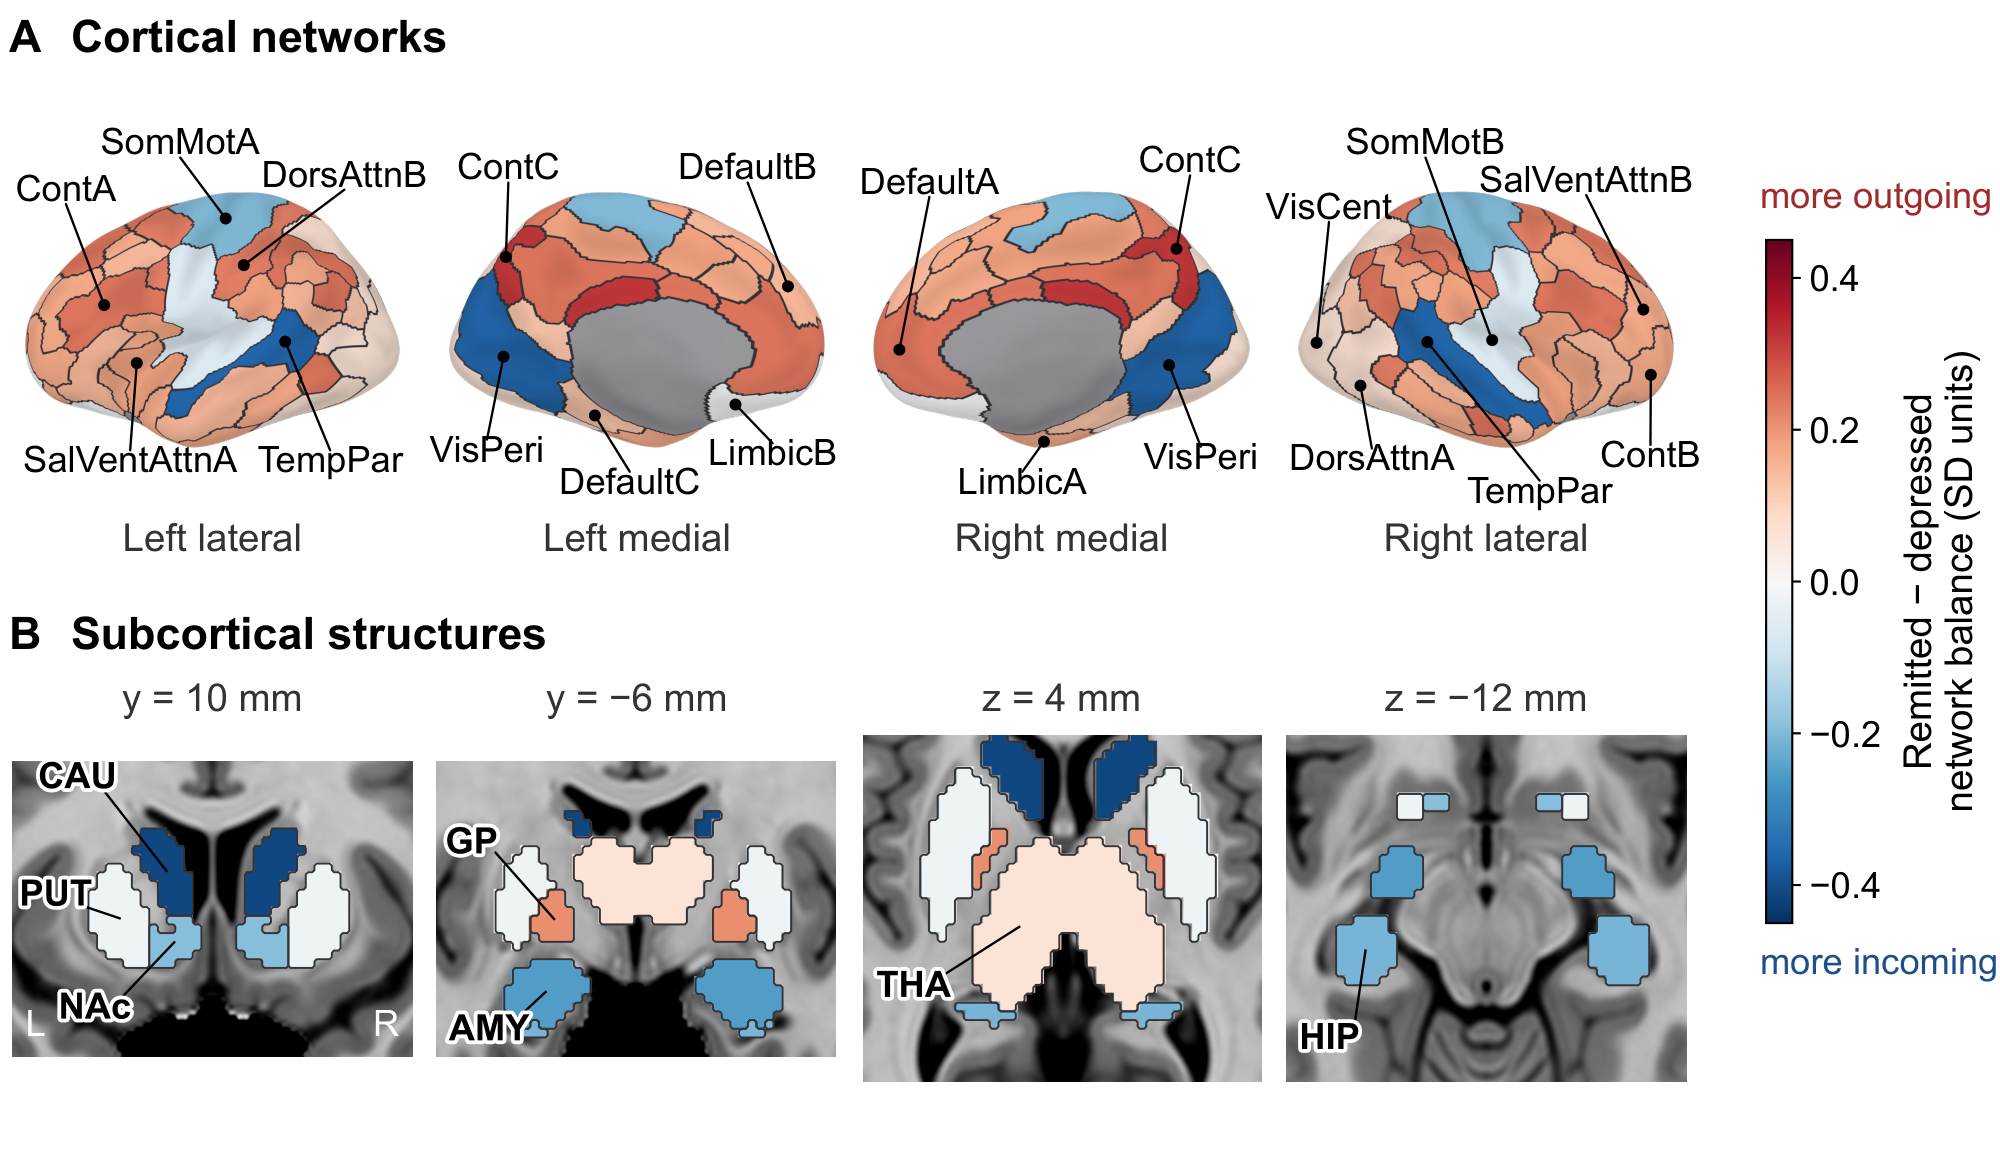
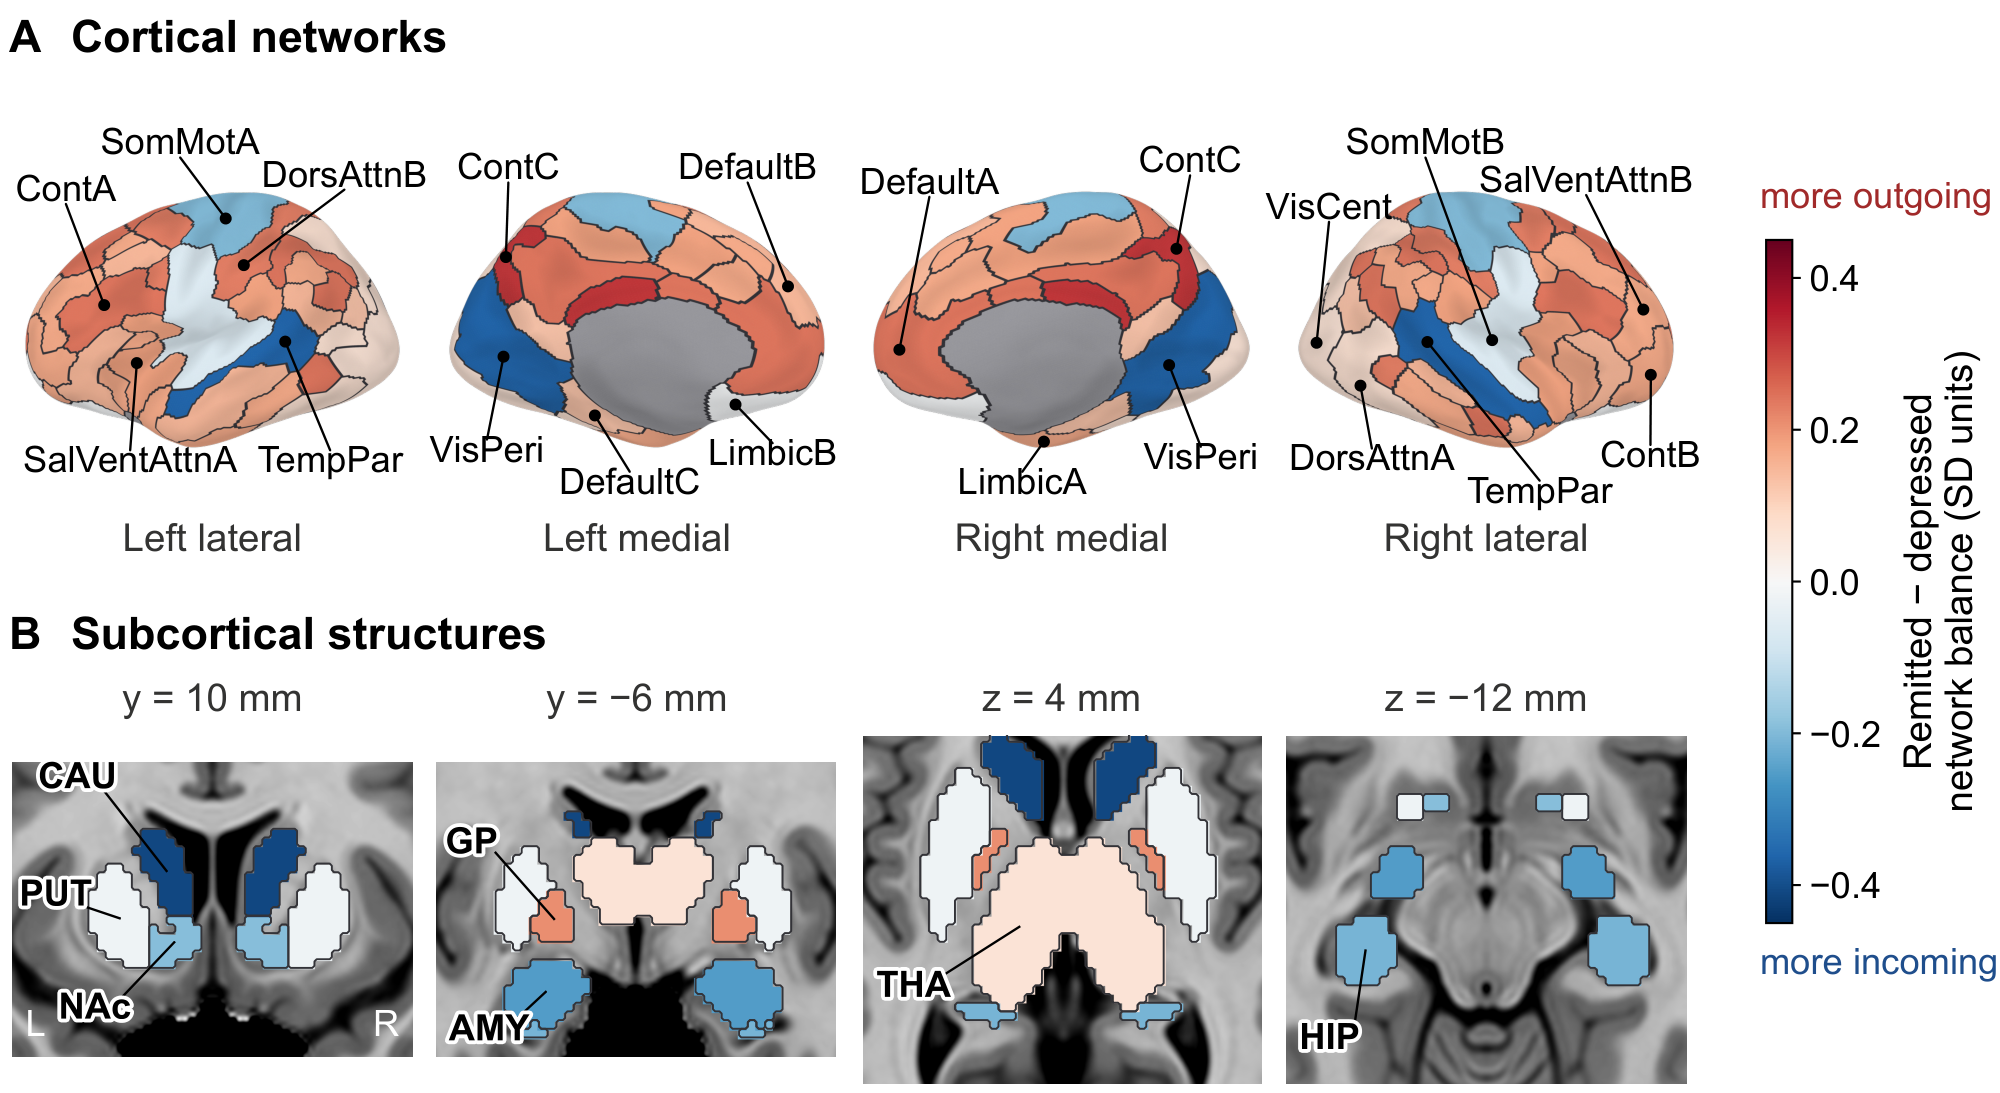
Figure 3 re-rendered from the current PDF (blank band trimmed)

diff --git a/index.html b/index.html
@@ -180,7 +180,7 @@
       </div>
       <figure class="fig">
         <a class="zoom" href="assets/network-balance-brain.webp" target="_blank" rel="noopener" title="Open the figure at full size">
-          <img src="assets/network-balance-brain.webp" width="2000" height="1164" loading="lazy"
+          <img src="assets/network-balance-brain.webp" width="2000" height="1093" loading="lazy"
                alt="Brain maps of the remitted-minus-depressed contrast of network balance. Cortical surfaces show most control, default-mode, dorsal-attention and salience networks in red, and peripheral visual, somatomotor A and temporal parietal networks in blue. Subcortical slices show the caudate, amygdala, hippocampus and nucleus accumbens in blue, and the globus pallidus and thalamus in light red.">
         </a>
         <figcaption>Remitted minus depressed network balance, in SD units. Red: more outgoing attribution in remitted scans; blue: more incoming.</figcaption>
